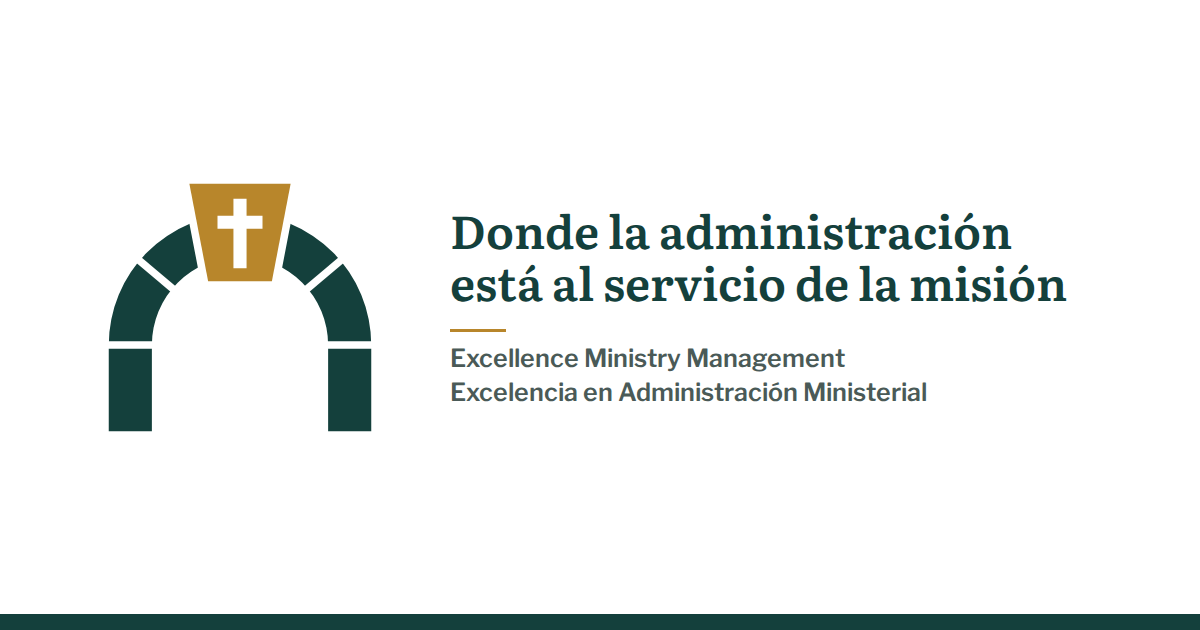
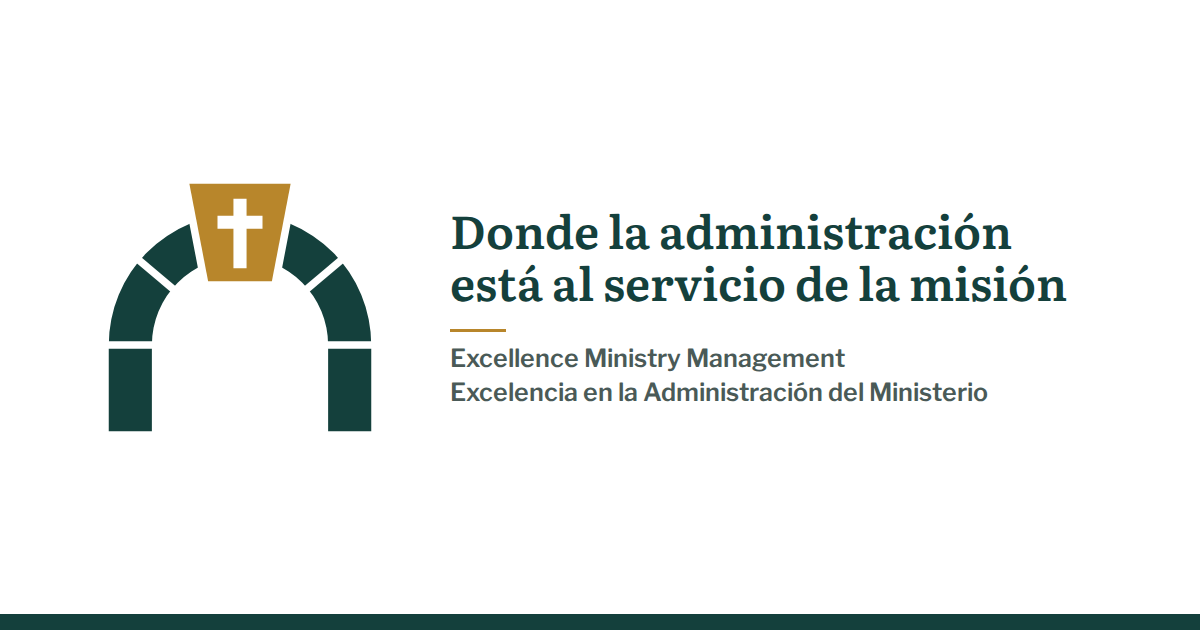
Spanish name: Excelencia en la Administración del Ministerio
Updated on every Spanish page, the logo files, icons and sharing image.

Claude-Session: https://claude.ai/code/session_01UHkNrEV4TBhayEexnFdTrV

Changed region(s): [[0.4933, 0.6032, 0.8325, 0.6635]]

diff --git a/templates/es/affiliates.html b/templates/es/affiliates.html
@@ -1,7 +1,7 @@
 {% extends "base.html" %}
 {% import "partials/macros.html" as m %}
 {% block title %}Organizaciones afiliadas{% endblock %}
-{% block description %}Iglesias y ministerios certificados como miembros activos de Excelencia en Administración Ministerial.{% endblock %}
+{% block description %}Iglesias y ministerios certificados como miembros activos de Excelencia en la Administración del Ministerio.{% endblock %}
 {% block main %}
 {{ m.page_head("Organizaciones afiliadas", "La Junta de Directores de EMM avala, reconoce y certifica a las siguientes organizaciones como miembros activos de EMM.") }}
 <div class="content">
@@ -15,7 +15,7 @@
     </ul>
     {% endfor %}
     <div class="prose">
-      <p>Con la publicación de esta página certificamos que las iglesias e instituciones mencionadas son miembros activos (charter members) de Excelencia en Administración Ministerial, con todos los privilegios y responsabilidades que otorga dicha certificación. Afirmamos su llamado al ministerio y su compromiso de servir a Dios y a los demás.</p>
+      <p>Con la publicación de esta página certificamos que las iglesias e instituciones mencionadas son miembros activos (charter members) de Excelencia en la Administración del Ministerio, con todos los privilegios y responsabilidades que otorga dicha certificación. Afirmamos su llamado al ministerio y su compromiso de servir a Dios y a los demás.</p>
       <p>Su organización también puede formar parte de EMM. <a href="{{ url('join', lang) }}">Conozca el proceso de admisión</a>.</p>
     </div>
   </div>

diff --git a/templates/es/home.html b/templates/es/home.html
@@ -1,13 +1,13 @@
 {% extends "base.html" %}
 {% import "partials/macros.html" as m %}
-{% block title %}Excelencia en Administración Ministerial{% endblock %}
+{% block title %}Excelencia en la Administración del Ministerio{% endblock %}
 {% block description %}Contabilidad, exención contributiva 501(c)(3), credenciales ministeriales y plan de retiro para iglesias independientes y sus ministros.{% endblock %}
 {% block main %}
 <section class="hero">
   <div class="wrap hero__inner">
     <div class="hero__text">
       <h1 class="hero__title">Donde la administración está al servicio de la misión</h1>
-      <p class="hero__lead">Excelencia en Administración Ministerial (EMM), antes NCCMN, se encarga de la contabilidad, la exención contributiva, las credenciales y el retiro de iglesias independientes, para que pastores y líderes puedan dedicarse a su llamado.</p>
+      <p class="hero__lead">Excelencia en la Administración del Ministerio (EMM), antes NCCMN, se encarga de la contabilidad, la exención contributiva, las credenciales y el retiro de iglesias independientes, para que pastores y líderes puedan dedicarse a su llamado.</p>
       <div class="hero__actions">
         <a class="btn" href="{{ url('join', lang) }}">Unir mi iglesia a EMM</a>
         <a class="btn btn--ghost" href="{{ url('churches', lang) }}">Ver los servicios</a>

diff --git a/templates/es/about.html b/templates/es/about.html
@@ -1,9 +1,9 @@
 {% extends "base.html" %}
 {% import "partials/macros.html" as m %}
 {% block title %}Nosotros{% endblock %}
-{% block description %}Conozca Excelencia en Administración Ministerial (EMM), antes Red Nacional de Iglesias y Ministerios Cristianos (NCCMN), su división Administra mi Iglesia y su liderazgo.{% endblock %}
+{% block description %}Conozca Excelencia en la Administración del Ministerio (EMM), antes Red Nacional de Iglesias y Ministerios Cristianos (NCCMN), su división Administra mi Iglesia y su liderazgo.{% endblock %}
 {% block main %}
-{{ m.page_head("Conozca EMM", "Excelencia en Administración Ministerial (EMM), conocida antes como Red Nacional de Iglesias y Ministerios Cristianos (NCCMN), es una organización sin fines de lucro exenta bajo la sección 501(c)(3) del Código de Rentas Internas.") }}
+{{ m.page_head("Conozca EMM", "Excelencia en la Administración del Ministerio (EMM), conocida antes como Red Nacional de Iglesias y Ministerios Cristianos (NCCMN), es una organización sin fines de lucro exenta bajo la sección 501(c)(3) del Código de Rentas Internas.") }}
 <div class="content">
   <div class="wrap layout">
     <div class="prose">

diff --git a/templates/es/join.html b/templates/es/join.html
@@ -3,7 +3,7 @@
 {% block title %}Únase a EMM{% endblock %}
 {% block description %}Beneficios de membresía en EMM y cómo solicitar la admisión de su iglesia u organización.{% endblock %}
 {% block main %}
-{{ m.page_head("Únase a EMM", "Iglesias, ministerios e iglesias en formación pueden ser miembros de Excelencia en Administración Ministerial (EMM).") }}
+{{ m.page_head("Únase a EMM", "Iglesias, ministerios e iglesias en formación pueden ser miembros de Excelencia en la Administración del Ministerio (EMM).") }}
 <div class="content">
   <div class="wrap layout">
     <div>

diff --git a/templates/es/give.html b/templates/es/give.html
@@ -1,7 +1,7 @@
 {% extends "base.html" %}
 {% import "partials/macros.html" as m %}
 {% block title %}Donar{% endblock %}
-{% block description %}Apoye a Excelencia en Administración Ministerial. Los donativos son deducibles de impuestos según la ley.{% endblock %}
+{% block description %}Apoye a Excelencia en la Administración del Ministerio. Los donativos son deducibles de impuestos según la ley.{% endblock %}
 {% block main %}
 {{ m.page_head("Apoye a EMM", "Su donativo ayuda a fortalecer los ministerios con buenas prácticas financieras.") }}
 <div class="content">

diff --git a/templates/es/prayer.html b/templates/es/prayer.html
@@ -1,7 +1,7 @@
 {% extends "base.html" %}
 {% import "partials/macros.html" as m %}
 {% block title %}Peticiones de oración{% endblock %}
-{% block description %}Envíe su petición de oración a Excelencia en Administración Ministerial.{% endblock %}
+{% block description %}Envíe su petición de oración a Excelencia en la Administración del Ministerio.{% endblock %}
 {% block main %}
 {{ m.page_head("Peticiones de oración", "Complete el formulario y le añadiremos a nuestra lista de peticiones.") }}
 <div class="content">

diff --git a/tools/make_icons.py b/tools/make_icons.py
@@ -17,7 +17,7 @@ IMG = ROOT / "static" / "img"
 FONTS = ROOT / "static" / "fonts"
 SPRUCE, GOLD, GOLD_LIGHT = "#14403C", "#B8862B", "#D9A846"
 NAMES = {"en": ("Excellence Ministry", "Management"),
-         "es": ("Excelencia en", "Administración Ministerial")}
+         "es": ("Excelencia en la", "Administración del Ministerio")}
 
 
 def font(name):
@@ -103,7 +103,7 @@ async def main():
             <div style="width:300px;flex:none;line-height:0">{MARK}</div>
             <div><div style="font:600 46px/1.12 L;color:{SPRUCE};margin:0 0 22px">Donde la administración está al servicio de la misión</div>
             <div class="rule"></div>
-            <div style="font:600 25px/1.35 F;color:#4A5A57">Excellence Ministry Management<br>Excelencia en Administración Ministerial</div></div></div>"""
+            <div style="font:600 25px/1.35 F;color:#4A5A57">Excellence Ministry Management<br>Excelencia en la Administración del Ministerio</div></div></div>"""
         await shot(og, IMG / "og.png", scale=1, sel=".og", viewport={"width": 1200, "height": 630})
         await b.close()
 

diff --git a/content/data.py b/content/data.py
@@ -8,7 +8,7 @@ from pathlib import Path
 
 # ------------------------------------------------------------------ contact
 ORG = {
-    "name_es": "Excelencia en Administración Ministerial",
+    "name_es": "Excelencia en la Administración del Ministerio",
     "name_en": "Excellence Ministry Management",
     "short": "EMM",
     # former name, shown on the About page and home page so returning churches recognize us

diff --git a/README.md b/README.md
@@ -1,7 +1,7 @@
 # EMM website
 
 A bilingual (Spanish first, English second) static website for
-Excelencia en Administración Ministerial / Excellence Ministry Management (EMM),
+Excelencia en la Administración del Ministerio / Excellence Ministry Management (EMM),
 formerly the Red Nacional de Iglesias y Ministerios Cristianos / National Christian Churches & Ministries Network (NCCMN).
 
 It is built from the same code as the new NCCMN site, which replaced an old WordPress site that had
